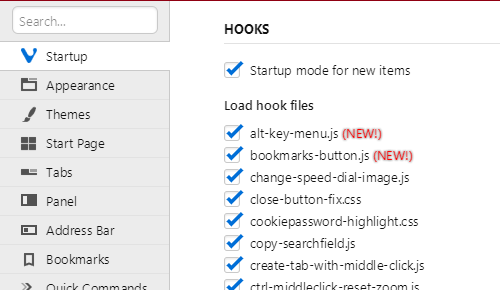
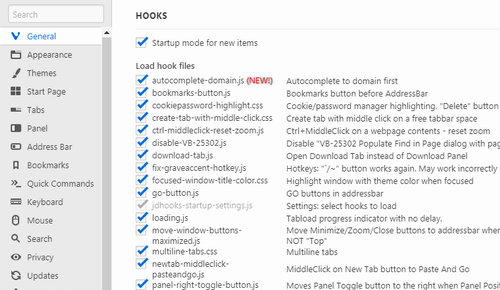
README.md: removed obsolete screenshot, updated jdhooks-startup-settings.png

Changed region(s): [[0.0, 0.0, 1.0, 1.0]]

diff --git a/README.md b/README.md
@@ -79,7 +79,3 @@ The easiest way to "uninstall"/disable VivaldiHooks is to delete **{instdir}\viv
 ### [jdhooks-startup-settings.js](vivaldi/hooks/jdhooks-startup-settings.js)
 
 ![jdhooks-startup-settings.png](screenshots/jdhooks-startup-settings.png)
-
-### [speeddial-items-geometry.js](vivaldi/hooks/speeddial-items-geometry.js)
-
-![speeddial-items-geometry.png](screenshots/speeddial-items-geometry.png)
